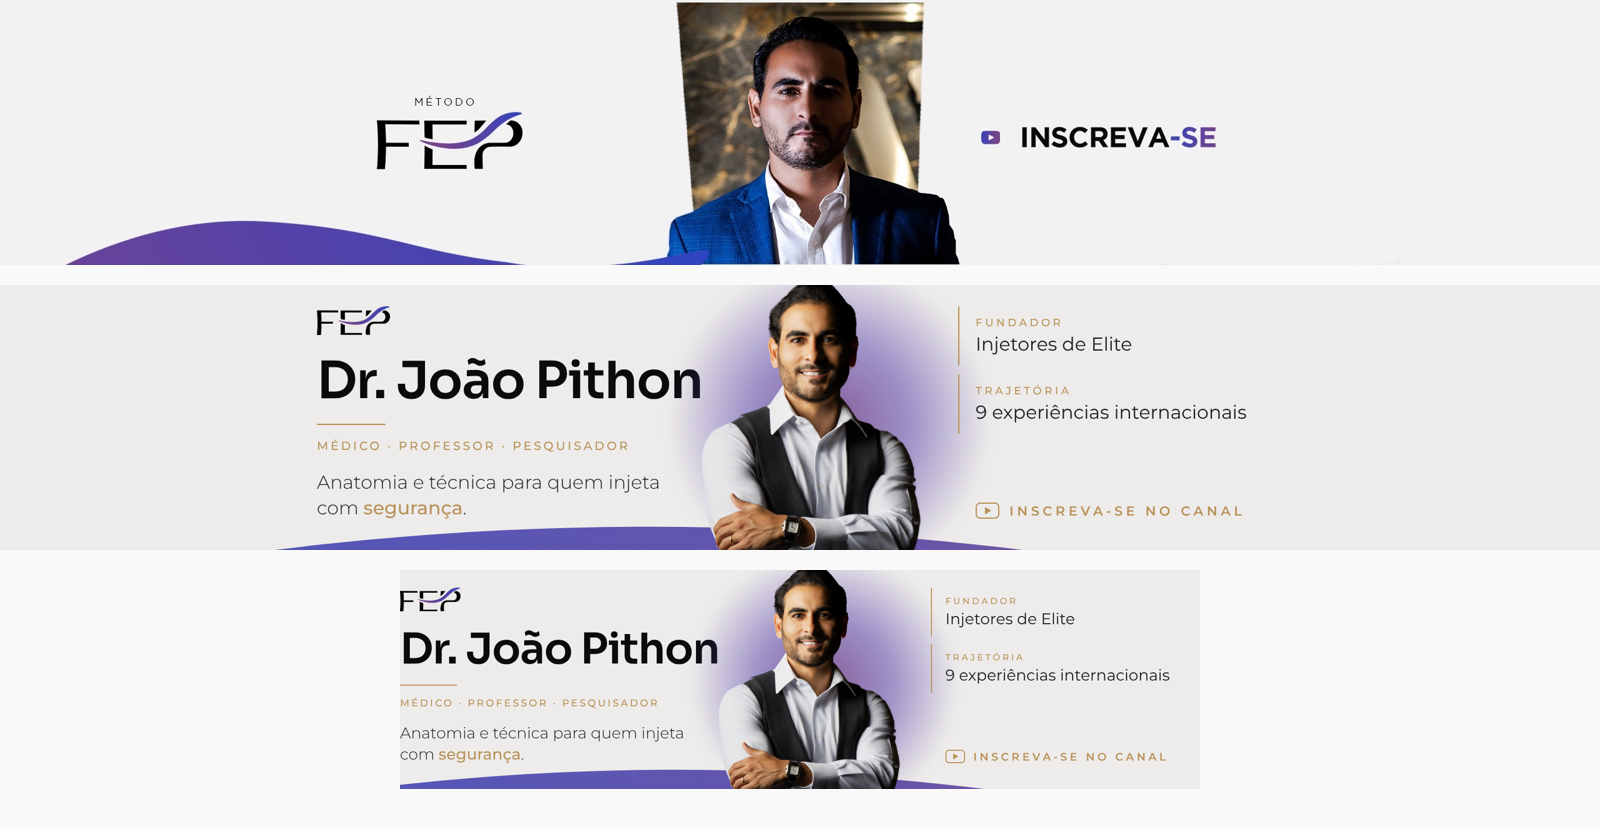
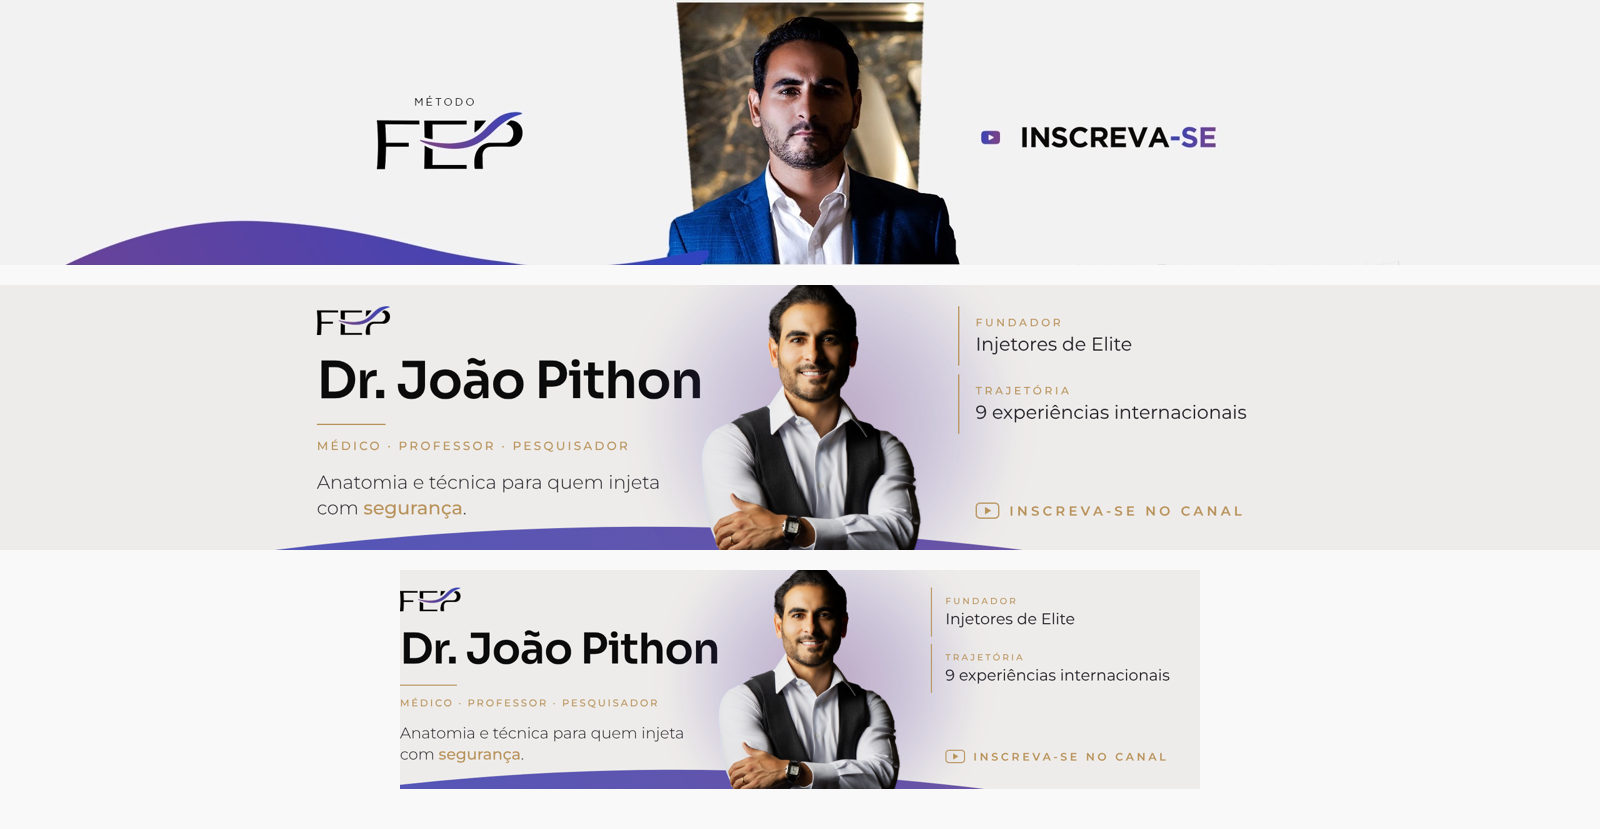
FEA capa YouTube opção B: halo roxo mais suave
Claude-Session: https://claude.ai/code/session_011MH3jdyDdLhbFaeptuadsh

Changed region(s): [[0.4375, 0.392, 0.5938, 0.573], [0.4375, 0.7238, 0.5938, 0.8745]]

diff --git a/FEA-capa-youtube/FEA-capa-youtube-B-clara.html b/FEA-capa-youtube/FEA-capa-youtube-B-clara.html
@@ -13,7 +13,7 @@ body{background:#222;padding:20px}
 .onda{position:absolute;left:-200px;right:-200px;top:820px;height:260px}
 .linha-ouro{position:absolute;left:0;right:0;height:1px;background:linear-gradient(90deg,transparent,rgba(213,175,116,.55) 30%,rgba(213,175,116,.55) 70%,transparent)}
 .segura{position:absolute;left:507px;top:508px;width:1546px;height:423px}
-.halo{position:absolute;left:560px;top:-40px;width:520px;height:520px;border-radius:50%;background:radial-gradient(circle,rgba(117,67,138,.85) 0%,rgba(90,70,170,.55) 35%,rgba(117,67,138,0) 70%);filter:blur(10px)}
+.halo{position:absolute;left:520px;top:-80px;width:600px;height:600px;border-radius:50%;background:radial-gradient(circle,rgba(117,67,138,.42) 0%,rgba(90,70,170,.22) 40%,rgba(117,67,138,0) 72%);filter:blur(24px)}
 .foto{position:absolute;left:615px;top:-6px;height:660px;-webkit-mask-image:linear-gradient(180deg,#000 72%,transparent 100%)}
 .logo{position:absolute;left:0;top:34px;height:46px}
 .nome{position:absolute;left:0;top:112px;font:600 82px Sora;color:#0b0b0c;letter-spacing:-.02em;line-height:1}
